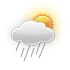
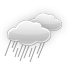
Fix weather, add ru dates, fix instagram comments,

Changed region(s): [[0.0571, 0.0857, 0.8857, 0.8857], [0.2571, 0.2857, 0.3714, 0.3714]]

diff --git a/web/css/main.min.css b/web/css/main.min.css
@@ -1,1 +1,1 @@
-/*! normalize.css v3.0.3 | MIT License | github.com/necolas/normalize.css */img,legend{border:0}legend,td,th{padding:0}.text table,table{border-collapse:collapse}@font-face{font-family:'Open Sans';font-style:normal;font-weight:300;src:local('Open Sans Light'),local('OpenSans-Light'),url(../../fonts.gstatic.com/s/opensans/v13/DXI1ORHCpsQm3Vp6mXoaTfOEPOIfcPv-fZ-WyMUtx48.ttf) format('truetype')}@font-face{font-family:'Open Sans';font-style:normal;font-weight:400;src:local('Open Sans'),local('OpenSans'),url(../../fonts.gstatic.com/s/opensans/v13/RjgO7rYTmqiVp7vzi-Q5UaCWcynf_cDxXwCLxiixG1c.ttf) format('truetype')}@font-face{font-family:'Open Sans';font-style:normal;font-weight:700;src:local('Open Sans Bold'),local('OpenSans-Bold'),url(../../fonts.gstatic.com/s/opensans/v13/k3k702ZOKiLJc3WVjuplzPOEPOIfcPv-fZ-WyMUtx48.ttf) format('truetype')}@font-face{font-family:'Open Sans';font-style:normal;font-weight:800;src:local('Open Sans Extrabold'),local('OpenSans-Extrabold'),url(../../fonts.gstatic.com/s/opensans/v13/EInbV5DfGHOiMmvb1Xr-hvOEPOIfcPv-fZ-WyMUtx48.ttf) format('truetype')}@font-face{font-family:'Open Sans';font-style:italic;font-weight:400;src:local('Open Sans Italic'),local('OpenSans-Italic'),url(../../fonts.gstatic.com/s/opensans/v13/xjAJXh38I15wypJXxuGMBpp-63r6doWhTEbsfBIRJ7A.ttf) format('truetype')}@font-face{font-family:Roboto;font-style:normal;font-weight:400;src:local('Roboto'),local('Roboto-Regular'),url(../../fonts.gstatic.com/s/roboto/v15/B85vmdvDILX92ray16e-1g.ttf) format('truetype')}@font-face{font-family:Roboto;font-style:normal;font-weight:700;src:local('Roboto Bold'),local('Roboto-Bold'),url(../../fonts.gstatic.com/s/roboto/v15/isZ-wbCXNKAbnjo6_TwHTqCWcynf_cDxXwCLxiixG1c.ttf) format('truetype')}@font-face{font-family:Roboto;font-style:normal;font-weight:900;src:local('Roboto Black'),local('Roboto-Black'),url(../../fonts.gstatic.com/s/roboto/v15/3Y_xCyt7TNunMGg0Et2pnqCWcynf_cDxXwCLxiixG1c.ttf) format('truetype')}@font-face{font-family:Roboto;font-style:italic;font-weight:400;src:local('Roboto Italic'),local('Roboto-Italic'),url(../../fonts.gstatic.com/s/roboto/v15/sWTqoqnV-OOzHbi5P-jvYPesZW2xOQ-xsNqO47m55DA.ttf) format('truetype')}@font-face{font-family:'Russo One';font-style:normal;font-weight:400;src:local('Russo One'),local('RussoOne-Regular'),url(../../fonts.gstatic.com/s/russoone/v5/4ofjFbAC3dpxPypNpg86K6CWcynf_cDxXwCLxiixG1c.ttf) format('truetype')}html{font-family:sans-serif;-ms-text-size-adjust:100%;-webkit-text-size-adjust:100%}body{margin:0}article,aside,details,figcaption,figure,footer,header,hgroup,main,menu,nav,section,summary{display:block}audio,canvas,progress,video{display:inline-block;vertical-align:baseline}audio:not([controls]){display:none;height:0}[hidden],template{display:none}a{background-color:transparent}a:active,a:hover{outline:0}abbr[title]{border-bottom:1px dotted}b,optgroup,strong{font-weight:700}dfn{font-style:italic}h1{font-size:2em;margin:.67em 0}mark{background:#ff0;color:#000}small{font-size:80%}sub,sup{font-size:75%;line-height:0;position:relative;vertical-align:baseline}sup{top:-.5em}sub{bottom:-.25em}svg:not(:root){overflow:hidden}figure{margin:1em 40px}hr{box-sizing:content-box;height:0}pre,textarea{overflow:auto}code,kbd,pre,samp{font-family:monospace,monospace;font-size:1em}button,input,optgroup,select,textarea{color:inherit;font:inherit;margin:0}button{overflow:visible}button,select{text-transform:none}button,html input[type=button],input[type=reset],input[type=submit]{-webkit-appearance:button;cursor:pointer}button[disabled],html input[disabled]{cursor:default}button::-moz-focus-inner,input::-moz-focus-inner{border:0;padding:0}input{line-height:normal}input[type=checkbox],input[type=radio]{box-sizing:border-box;padding:0}input[type=number]::-webkit-inner-spin-button,input[type=number]::-webkit-outer-spin-button{height:auto}input[type=search]{-webkit-appearance:textfield;box-sizing:content-box}input[type=search]::-webkit-search-cancel-button,input[type=search]::-webkit-search-decoration{-webkit-appearance:none}fieldset{border:1px solid silver;margin:0 2px;padding:.35em .625em .75em}table{border-spacing:0}.clear{zoom:1}.clear:after,.clear:before{content:"\0020";display:block;height:0;overflow:hidden}.clear:after{clear:both}.ov-hidden{overflow:hidden}.ta-center{text-align:center}.ta-right{text-align:right}.ta-left{text-align:left}.fs10{font-size:10px}.fs11{font-size:11px}.fs12{font-size:12px}.fs13{font-size:13px}.fs14{font-size:14px}.fs15{font-size:15px}.fl-l{float:left}.fl-r{float:right}.mb5{margin-bottom:5px}.mb10{margin-bottom:10px}.mb20{margin-bottom:20px}.mb30,.mb40{margin-bottom:30px}.mb50{margin-bottom:50px}body{font-size:12px;font-family:'Open Sans',Arial,sans-serif}.slide{padding:20px}.slide .slide__title{font-weight:700;font-size:30px;text-transform:uppercase;padding:0 0 15px;line-height:1;border-bottom:1px #095dff solid;margin-bottom:15px}.slide .slide__title span{padding-left:10px;font-weight:400;color:#333;font-size:14px}.rss-feed .rss-feed__item{padding-bottom:20px;border-bottom:1px #eee solid;margin-bottom:20px}.rss-feed .rss-feed__item .rss-feed__date{color:#828282;font-size:13px}.rss-feed .rss-feed__item>a{font-size:25px;display:inline-block}.error h3,.rss-feed .rss-feed__item .rss-feed__content{font-size:16px}.error{color:#a94442;background-color:#f2dede;border-color:#ebccd1}.weather .weather__today{margin-bottom:20px;border-bottom:1px #eee solid}.weather .weather__today h2{font-size:40px;margin:0 0 10px;line-height:1}.weather .weather__today h2 span{padding-left:20px;font-weight:700}.weather .weather__today .weather__code p{margin:0;vertical-align:top}.weather .weather__today .weather__code p span.weather__code-text{vertical-align:top;font-size:20px;padding-left:15px;line-height:70px}.weather .weather__forecasts .weather__forecast{text-align:center;padding:10px}.weather .weather__forecasts .weather__forecast>div{padding-bottom:10px;margin-bottom:10px;border-bottom:1px #eee solid}.weather .weather__forecasts .weather__forecast>div:last-child{margin-bottom:0;padding-bottom:0;border-bottom:none}.weather .weather__forecasts .weather__forecast .weather__forecast-date{font-style:italic;font-size:18px}.weather .weather__forecasts .weather__forecast .weather__forecast-temp .low{color:#444;font-size:15px;padding-left:15px}.weather .weather__forecasts .weather__forecast .weather__forecast-temp .high{font-size:25px;font-weight:700}.weather-icon{width:70px;height:70px;display:inline-block;background-position:0 0;background-repeat:no-repeat}.weather-icon.weather-icon-1{background-image:url(../img/weather/1.png)}.weather-icon.weather-icon-2{background-image:url(../img/weather/2.png)}.weather-icon.weather-icon-3{background-image:url(../img/weather/3.png)}.weather-icon.weather-icon-4{background-image:url(../img/weather/4.png)}.weather-icon.weather-icon-5{background-image:url(../img/weather/5.png)}.weather-icon.weather-icon-6{background-image:url(../img/weather/6.png)}.weather-icon.weather-icon-7{background-image:url(../img/weather/7.png)}.weather-icon.weather-icon-8{background-image:url(../img/weather/8.png)}.weather-icon.weather-icon-9{background-image:url(../img/weather/9.png)}.weather-icon.weather-icon-10{background-image:url(../img/weather/10.png)}.weather-icon.weather-icon-11{background-image:url(../img/weather/11.png)}.weather-icon.weather-icon-12{background-image:url(../img/weather/12.png)}.weather-icon.weather-icon-13{background-image:url(../img/weather/13.png)}.weather-icon.weather-icon-14{background-image:url(../img/weather/14.png)}.weather-icon.weather-icon-15{background-image:url(../img/weather/15.png)}.weather-icon.weather-icon-16{background-image:url(../img/weather/16.png)}.weather-icon.weather-icon-17{background-image:url(../img/weather/17.png)}.weather-icon.weather-icon-18{background-image:url(../img/weather/18.png)}.weather-icon.weather-icon-19{background-image:url(../img/weather/19.png)}.weather-icon.weather-icon-20{background-image:url(../img/weather/20.png)}.weather-icon.weather-icon-26{background-image:url(../img/weather/26.png)}.weather-icon.weather-icon-27{background-image:url(../img/weather/27.png)}.weather-icon.weather-icon-28{background-image:url(../img/weather/28.png)}.weather-icon.weather-icon-29{background-image:url(../img/weather/29.png)}.weather-icon.weather-icon-39{background-image:url(../img/weather/39.png)}.weather-icon.weather-icon-30{background-image:url(../img/weather/30.png)}.weather-icon.weather-icon-46{background-image:url(../img/weather/46.png)}.instagram{padding:10px;background:#e5e5e5}.instagram-item{padding:10px;background:#fff;border-radius:10px}.instagram-item .instagram-item__title a,.instagram-item .instagram-item__title span{display:block}#wrapper{width:100%}.col-20percent{width:20%!important}.text{line-height:150%}.text h1,.text h2,.text h3,.text h4,.text h5{font-weight:700;margin:0 0 10px}.text h1{font-size:20px}.text h2{font-size:18px}.text h3{font-size:16px}.text h4{font-size:15px}.text h5{font-size:14px}.text p{margin:0 0 15px}.text a{text-decoration:none}.text a:hover{text-decoration:underline}.text strong{font-weight:700}.text em{font-style:italic}.text blockquote{padding:10px;background:#eee;border-left:7px #999 solid;margin:0 0 15px}.text img{padding:2px;border:1px solid #eee;margin:0 5px 5px 0}.text ul{margin:0 0 15px 20px}.text ul li{padding:0}.text table{margin:0 0 15px}.text table td,.text table th{padding:5px;border:1px solid #eee}.text table th{text-align:center;font-weight:700}
+/*! normalize.css v3.0.3 | MIT License | github.com/necolas/normalize.css */img,legend{border:0}legend,td,th{padding:0}.text table,table{border-collapse:collapse}@font-face{font-family:'Open Sans';font-style:normal;font-weight:300;src:local('Open Sans Light'),local('OpenSans-Light'),url(../../fonts.gstatic.com/s/opensans/v13/DXI1ORHCpsQm3Vp6mXoaTfOEPOIfcPv-fZ-WyMUtx48.ttf) format('truetype')}@font-face{font-family:'Open Sans';font-style:normal;font-weight:400;src:local('Open Sans'),local('OpenSans'),url(../../fonts.gstatic.com/s/opensans/v13/RjgO7rYTmqiVp7vzi-Q5UaCWcynf_cDxXwCLxiixG1c.ttf) format('truetype')}@font-face{font-family:'Open Sans';font-style:normal;font-weight:700;src:local('Open Sans Bold'),local('OpenSans-Bold'),url(../../fonts.gstatic.com/s/opensans/v13/k3k702ZOKiLJc3WVjuplzPOEPOIfcPv-fZ-WyMUtx48.ttf) format('truetype')}@font-face{font-family:'Open Sans';font-style:normal;font-weight:800;src:local('Open Sans Extrabold'),local('OpenSans-Extrabold'),url(../../fonts.gstatic.com/s/opensans/v13/EInbV5DfGHOiMmvb1Xr-hvOEPOIfcPv-fZ-WyMUtx48.ttf) format('truetype')}@font-face{font-family:'Open Sans';font-style:italic;font-weight:400;src:local('Open Sans Italic'),local('OpenSans-Italic'),url(../../fonts.gstatic.com/s/opensans/v13/xjAJXh38I15wypJXxuGMBpp-63r6doWhTEbsfBIRJ7A.ttf) format('truetype')}@font-face{font-family:Roboto;font-style:normal;font-weight:400;src:local('Roboto'),local('Roboto-Regular'),url(../../fonts.gstatic.com/s/roboto/v15/B85vmdvDILX92ray16e-1g.ttf) format('truetype')}@font-face{font-family:Roboto;font-style:normal;font-weight:700;src:local('Roboto Bold'),local('Roboto-Bold'),url(../../fonts.gstatic.com/s/roboto/v15/isZ-wbCXNKAbnjo6_TwHTqCWcynf_cDxXwCLxiixG1c.ttf) format('truetype')}@font-face{font-family:Roboto;font-style:normal;font-weight:900;src:local('Roboto Black'),local('Roboto-Black'),url(../../fonts.gstatic.com/s/roboto/v15/3Y_xCyt7TNunMGg0Et2pnqCWcynf_cDxXwCLxiixG1c.ttf) format('truetype')}@font-face{font-family:Roboto;font-style:italic;font-weight:400;src:local('Roboto Italic'),local('Roboto-Italic'),url(../../fonts.gstatic.com/s/roboto/v15/sWTqoqnV-OOzHbi5P-jvYPesZW2xOQ-xsNqO47m55DA.ttf) format('truetype')}@font-face{font-family:'Russo One';font-style:normal;font-weight:400;src:local('Russo One'),local('RussoOne-Regular'),url(../../fonts.gstatic.com/s/russoone/v5/4ofjFbAC3dpxPypNpg86K6CWcynf_cDxXwCLxiixG1c.ttf) format('truetype')}html{font-family:sans-serif;-ms-text-size-adjust:100%;-webkit-text-size-adjust:100%}body{margin:0}article,aside,details,figcaption,figure,footer,header,hgroup,main,menu,nav,section,summary{display:block}audio,canvas,progress,video{display:inline-block;vertical-align:baseline}audio:not([controls]){display:none;height:0}[hidden],template{display:none}a{background-color:transparent}a:active,a:hover{outline:0}abbr[title]{border-bottom:1px dotted}b,optgroup,strong{font-weight:700}dfn{font-style:italic}h1{font-size:2em;margin:.67em 0}mark{background:#ff0;color:#000}small{font-size:80%}sub,sup{font-size:75%;line-height:0;position:relative;vertical-align:baseline}sup{top:-.5em}sub{bottom:-.25em}svg:not(:root){overflow:hidden}figure{margin:1em 40px}hr{box-sizing:content-box;height:0}pre,textarea{overflow:auto}code,kbd,pre,samp{font-family:monospace,monospace;font-size:1em}button,input,optgroup,select,textarea{color:inherit;font:inherit;margin:0}button{overflow:visible}button,select{text-transform:none}button,html input[type=button],input[type=reset],input[type=submit]{-webkit-appearance:button;cursor:pointer}button[disabled],html input[disabled]{cursor:default}button::-moz-focus-inner,input::-moz-focus-inner{border:0;padding:0}input{line-height:normal}input[type=checkbox],input[type=radio]{box-sizing:border-box;padding:0}input[type=number]::-webkit-inner-spin-button,input[type=number]::-webkit-outer-spin-button{height:auto}input[type=search]{-webkit-appearance:textfield;box-sizing:content-box}input[type=search]::-webkit-search-cancel-button,input[type=search]::-webkit-search-decoration{-webkit-appearance:none}fieldset{border:1px solid silver;margin:0 2px;padding:.35em .625em .75em}table{border-spacing:0}.clear{zoom:1}.clear:after,.clear:before{content:"\0020";display:block;height:0;overflow:hidden}.clear:after{clear:both}.ov-hidden{overflow:hidden}.ta-center{text-align:center}.ta-right{text-align:right}.ta-left{text-align:left}.fs10{font-size:10px}.fs11{font-size:11px}.fs12{font-size:12px}.fs13{font-size:13px}.fs14{font-size:14px}.fs15{font-size:15px}.fl-l{float:left}.fl-r{float:right}.mb5{margin-bottom:5px}.mb10{margin-bottom:10px}.mb20{margin-bottom:20px}.mb30,.mb40{margin-bottom:30px}.mb50{margin-bottom:50px}body{font-size:12px;font-family:'Open Sans',Arial,sans-serif}.slide{padding:20px}.slide .slide__title{font-weight:700;font-size:30px;text-transform:uppercase;padding:0 0 15px;line-height:1;border-bottom:1px #d2d2d2 solid;margin-bottom:15px}.slide .slide__title span{padding-left:10px;font-weight:400;color:#333;font-size:14px}.rss-feed .rss-feed__item{padding-bottom:20px;border-bottom:1px #eee solid;margin-bottom:20px}.rss-feed .rss-feed__item .rss-feed__date{color:#828282;font-size:13px}.rss-feed .rss-feed__item>a{font-size:25px;display:inline-block}.error h3,.rss-feed .rss-feed__item .rss-feed__content{font-size:16px}.error{color:#a94442;background-color:#f2dede;border-color:#ebccd1}.weather .weather__today{margin-bottom:20px;border-bottom:1px #eee solid}.weather .weather__today h2{font-size:40px;margin:0 0 10px;line-height:1}.weather .weather__today h2 span{padding-left:20px;font-weight:700}.weather .weather__today .weather__code p{margin:0;vertical-align:top}.weather .weather__today .weather__code p span.weather__code-text{vertical-align:top;font-size:20px;padding-left:15px;line-height:70px}.weather .weather__forecasts .weather__forecast{text-align:center;padding:10px}.weather .weather__forecasts .weather__forecast>div{padding-bottom:10px;margin-bottom:10px;border-bottom:1px #eee solid}.weather .weather__forecasts .weather__forecast>div:last-child{margin-bottom:0;padding-bottom:0;border-bottom:none}.weather .weather__forecasts .weather__forecast .weather__forecast-date{font-style:italic;font-size:18px}.weather .weather__forecasts .weather__forecast .weather__forecast-temp .low{color:#444;font-size:25px;padding-left:15px}.weather .weather__forecasts .weather__forecast .weather__forecast-temp .high{font-size:40px;font-weight:700}.weather-icon{width:70px;height:70px;display:inline-block;background-position:0 0;background-repeat:no-repeat}.weather-icon.weather-icon-1{background-image:url(../img/weather/1.png)}.weather-icon.weather-icon-2{background-image:url(../img/weather/2.png)}.weather-icon.weather-icon-3{background-image:url(../img/weather/3.png)}.weather-icon.weather-icon-4{background-image:url(../img/weather/4.png)}.weather-icon.weather-icon-5{background-image:url(../img/weather/5.png)}.weather-icon.weather-icon-6{background-image:url(../img/weather/6.png)}.weather-icon.weather-icon-7{background-image:url(../img/weather/7.png)}.weather-icon.weather-icon-8{background-image:url(../img/weather/8.png)}.weather-icon.weather-icon-9{background-image:url(../img/weather/9.png)}.weather-icon.weather-icon-10{background-image:url(../img/weather/10.png)}.weather-icon.weather-icon-11{background-image:url(../img/weather/11.png)}.weather-icon.weather-icon-12{background-image:url(../img/weather/12.png)}.weather-icon.weather-icon-13{background-image:url(../img/weather/13.png)}.weather-icon.weather-icon-14{background-image:url(../img/weather/14.png)}.weather-icon.weather-icon-15{background-image:url(../img/weather/15.png)}.weather-icon.weather-icon-16{background-image:url(../img/weather/16.png)}.weather-icon.weather-icon-17{background-image:url(../img/weather/17.png)}.weather-icon.weather-icon-18{background-image:url(../img/weather/18.png)}.weather-icon.weather-icon-19{background-image:url(../img/weather/19.png)}.weather-icon.weather-icon-20{background-image:url(../img/weather/20.png)}.weather-icon.weather-icon-26{background-image:url(../img/weather/26.png)}.weather-icon.weather-icon-27{background-image:url(../img/weather/27.png)}.weather-icon.weather-icon-28{background-image:url(../img/weather/28.png)}.weather-icon.weather-icon-29{background-image:url(../img/weather/29.png)}.weather-icon.weather-icon-39{background-image:url(../img/weather/39.png)}.weather-icon.weather-icon-30{background-image:url(../img/weather/30.png)}.weather-icon.weather-icon-46{background-image:url(../img/weather/46.png)}.instagram{padding:10px;background:#e5e5e5}.instagram-item{padding:10px;background:#fff;border-radius:10px}.instagram-item .instagram-item__title{height:40px;position:relative}.instagram-item .instagram-item__title span,.instagram-item .instagram-item__title strong{display:block}.instagram-item .instagram-item__title .instagram-item__date{position:absolute;font-size:11px;color:#6F6F6F;right:0;top:0}.instagram-item .instagram-item__image{margin:0 0 5px}#wrapper{width:100%}.col-20percent{width:20%!important}.text{line-height:150%}.text h1,.text h2,.text h3,.text h4,.text h5{font-weight:700;margin:0 0 10px}.text h1{font-size:20px}.text h2{font-size:18px}.text h3{font-size:16px}.text h4{font-size:15px}.text h5{font-size:14px}.text p{margin:0 0 15px}.text a{text-decoration:none}.text a:hover{text-decoration:underline}.text strong{font-weight:700}.text em{font-style:italic}.text blockquote{padding:10px;background:#eee;border-left:7px #999 solid;margin:0 0 15px}.text img{padding:2px;border:1px solid #eee;margin:0 5px 5px 0}.text ul{margin:0 0 15px 20px}.text ul li{padding:0}.text table{margin:0 0 15px}.text table td,.text table th{padding:5px;border:1px solid #eee}.text table th{text-align:center;font-weight:700}

diff --git a/web/css/main.css b/web/css/main.css
@@ -174,7 +174,7 @@ body { font-size: 12px; font-family: 'Open Sans', Arial, sans-serif; }
 
 .slide { padding: 20px; }
 
-.slide .slide__title { font-weight: bold; font-size: 30px; text-transform: uppercase; padding: 0 0 15px; line-height: 1; border-bottom: 1px #095dff solid; margin-bottom: 15px; }
+.slide .slide__title { font-weight: bold; font-size: 30px; text-transform: uppercase; padding: 0 0 15px; line-height: 1; border-bottom: 1px #d2d2d2 solid; margin-bottom: 15px; }
 
 .slide .slide__title span { padding-left: 10px; font-weight: normal; color: #333; font-size: 14px; }
 
@@ -208,9 +208,9 @@ body { font-size: 12px; font-family: 'Open Sans', Arial, sans-serif; }
 
 .weather .weather__forecasts .weather__forecast .weather__forecast-date { font-style: italic; font-size: 18px; }
 
-.weather .weather__forecasts .weather__forecast .weather__forecast-temp .low { color: #444; font-size: 15px; padding-left: 15px; }
+.weather .weather__forecasts .weather__forecast .weather__forecast-temp .low { color: #444; font-size: 25px; padding-left: 15px; }
 
-.weather .weather__forecasts .weather__forecast .weather__forecast-temp .high { font-size: 25px; font-weight: bold; }
+.weather .weather__forecasts .weather__forecast .weather__forecast-temp .high { font-size: 40px; font-weight: bold; }
 
 .weather-icon { width: 70px; height: 70px; display: inline-block; background-position: 0 0; background-repeat: no-repeat; }
 
@@ -274,9 +274,13 @@ body { font-size: 12px; font-family: 'Open Sans', Arial, sans-serif; }
 
 .instagram-item { padding: 10px; background: white; border-radius: 10px; }
 
-.instagram-item .instagram-item__title a { display: block; }
+.instagram-item .instagram-item__title { height: 40px; position: relative; }
 
-.instagram-item .instagram-item__title span { display: block; }
+.instagram-item .instagram-item__title span, .instagram-item .instagram-item__title strong { display: block; }
+
+.instagram-item .instagram-item__title .instagram-item__date { position: absolute; font-size: 11px; color: #6F6F6F; right: 0; top: 0; }
+
+.instagram-item .instagram-item__image { margin: 0 0 5px; }
 
 #wrapper { width: 100%; }
 

diff --git a/frontend/src/scss/_blocks.scss b/frontend/src/scss/_blocks.scss
@@ -103,11 +103,11 @@
       .weather__forecast-temp {
         .low {
           color: #444;
-          font-size: 15px;
+          font-size: 25px;
           padding-left: 15px;
         }
         .high {
-          font-size: 25px;
+          font-size: 40px;
           font-weight: bold;
         }
       }
@@ -230,13 +230,24 @@
   background: white;
   border-radius: 10px;
   .instagram-item__title {
-    a {
-      display: block;  
-    }
-    span {
+    height: 40px;
+    position: relative;
+    span,strong {
       display: block;
     }
+    .instagram-item__date {
+      position: absolute;
+      font-size: 11px;
+      color: #6F6F6F;
+      right: 0;
+      top: 0;
+    }
+
     
+  }
+
+  .instagram-item__image {
+    margin: 0 0 5px;
   }
   
 }

diff --git a/frontend/gulpfile.js b/frontend/gulpfile.js
@@ -50,7 +50,7 @@ gulp.task('jade', function() {
         pageTitle: 'App Page Title'
     };
 
-    return gulp.src("./src/jade/*.jade")
+    return gulp.src("./src/jade/samples.jade")
         .pipe(jade({
             locals: YOUR_LOCALS,
             pretty: true
@@ -76,12 +76,12 @@ gulp.task('images', function() {
 
 gulp.task('watch', function () {
     gulp.run('styles');
-    //gulp.run('jade');
+    gulp.run('jade');
     gulp.run('scripts');
 
     livereload.listen();
     gulp.watch('./src/scss/**/*.scss', ['styles']);
-    //gulp.watch('./src/jade/**/*.jade', ['jade']);
+    gulp.watch('./src/jade/**/*.jade', ['jade']);
     gulp.watch('./src/js/**/*.js', ['scripts']);
 });
 

diff --git a/frontend/src/scss/_base.scss b/frontend/src/scss/_base.scss
@@ -4,4 +4,4 @@ body {
 }
 
 
-$cl-color: #095dff;
+$cl-color: #d2d2d2;

diff --git a/src/Handler/InstagramResourceHandler.php b/src/Handler/InstagramResourceHandler.php
@@ -9,8 +9,12 @@
 namespace IpadSlider\Handler;
 
 
+use HeyUpdate\Emoji\Emoji;
+use HeyUpdate\Emoji\EmojiIndex;
 use Instagram\Instagram;
 use IpadSlider\Application;
+use IpadSlider\Helper\StrHelper;
+use Jenssegers\Date\Date;
 
 class InstagramResourceHandler implements IResourceHandler {
 
@@ -31,17 +35,22 @@ class InstagramResourceHandler implements IResourceHandler {
 	public function renderHtml() {
 		$media = $this->_currentUser->getFeed(['count' => 3]);
 		$data = [];
+		$emoji = new Emoji(new EmojiIndex(), '//twemoji.maxcdn.com/36x36/%s.png');
 		foreach ($media as $photo) {
 			/** @var \Instagram\Media $photo */
 			$data[] = [
 				'image' => $photo->getLowResImage()->url,
 				'user' => $photo->getUser()->getUserName(),
 				'location' => $photo->getLocation() ? $photo->getLocation()->getName() : '',
-				'date' => $photo->getCreatedTime(),
-				//'caption' => $photo->getCaption() ? $photo->getCaption()->getText() : '',
+				'date' => Date::parse($photo->getCreatedTime())->ago(),
+				'caption' => $photo->getCaption() ? StrHelper::removeEmoji($photo->getCaption()->getText())  : '',
 			];
+
+			file_put_contents("test.txt", print_r($data,true));
 		}
 
 		return Application::getInstance()->jadeEngine()->render(__DIR__. '/../../frontend/src/jade/resource/instagram.jade', ['data' => $data]);
 	}
+
+
 }

diff --git a/src/Helper/StrHelper.php b/src/Helper/StrHelper.php
@@ -1,0 +1,41 @@
+<?php
+/**
+ * Created by PhpStorm.
+ * User: marochkin_pe
+ * Date: 03.11.2015
+ * Time: 16:34
+ */
+
+namespace IpadSlider\Helper;
+
+
+class StrHelper {
+
+	public static function removeEmoji($text) {
+
+		$clean_text = "";
+
+		// Match Emoticons
+		$regexEmoticons = '/[\x{1F600}-\x{1F64F}]/u';
+		$clean_text = preg_replace($regexEmoticons, '', $text);
+
+		// Match Miscellaneous Symbols and Pictographs
+		$regexSymbols = '/[\x{1F300}-\x{1F5FF}]/u';
+		$clean_text = preg_replace($regexSymbols, '', $clean_text);
+
+		// Match Transport And Map Symbols
+		$regexTransport = '/[\x{1F680}-\x{1F6FF}]/u';
+		$clean_text = preg_replace($regexTransport, '', $clean_text);
+
+		// Match Miscellaneous Symbols
+		$regexMisc = '/[\x{2600}-\x{26FF}]/u';
+		$clean_text = preg_replace($regexMisc, '', $clean_text);
+
+		// Match Dingbats
+		$regexDingbats = '/[\x{2700}-\x{27BF}]/u';
+		$clean_text = preg_replace($regexDingbats, '', $clean_text);
+
+		return $clean_text;
+	}
+
+} 

diff --git a/src/Application.php b/src/Application.php
@@ -15,8 +15,10 @@ use IpadSlider\Model\DbPersistent;
 use IpadSlider\Model\DummyPersistent;
 use IpadSlider\Transport\CurlTransport;
 use Jade\Jade;
+use Jenssegers\Date\Date;
 
-class Application {
+class Application
+{
 
 	private static $_instance;
 
@@ -29,11 +31,12 @@ class Application {
 	private $_serviceLocator;
 
 	private function __construct() {
-		$this->_config = require_once(dirname(__FILE__).'/../app/config.php');
+		$this->_config = require_once(dirname(__FILE__) . '/../app/config.php');
 
 	}
 
 	public function init() {
+		Date::setLocale('ru');
 		$this->_initServiceLocator();
 	}
 
@@ -43,16 +46,15 @@ class Application {
 	 *
 	 * @return void
 	 */
-	private function __clone()
-	{
+	private function __clone() {
 	}
+
 	/**
 	 * prevent from being unserialized
 	 *
 	 * @return void
 	 */
-	private function __wakeup()
-	{
+	private function __wakeup() {
 	}
 
 

diff --git a/src/Handler/WeatherResourceHandler.php b/src/Handler/WeatherResourceHandler.php
@@ -134,8 +134,8 @@ class WeatherResourceHandler implements IResourceHandler{
 		, 26 => 'облачно'
 		, 27 => 'облачно'
 		, 28 => 'облачно'
-		, 29 => 'небольшая облачность'
-		, 30 => 'небольшая облачность'
+		, 29 => 'переменная обрачность'
+		, 30 => 'переменная обрачность'
 		, 31 => 'ясно'
 		, 32 => 'солнечно'
 		, 33 => 'fair (night)'
@@ -144,7 +144,7 @@ class WeatherResourceHandler implements IResourceHandler{
 		, 36 => 'жарко'
 		, 37 => 'местами грозы'
 		, 38 => 'местами грозы'
-		, 39 => 'местами грозы'
+		, 39 => 'дожди'
 		, 40 => 'местами дожди'
 		, 41 => 'снег'
 		, 42 => 'снег'

diff --git a/src/Handler/RssResourceHandler.php b/src/Handler/RssResourceHandler.php
@@ -11,6 +11,7 @@ namespace IpadSlider\Handler;
 
 use IpadSlider\Application;
 use Jade\Jade;
+use Jenssegers\Date\Date;
 use Vinelab\Rss\Rss;
 
 class RssResourceHandler implements IResourceHandler {
@@ -43,7 +44,7 @@ class RssResourceHandler implements IResourceHandler {
 
 			$result[] = [
 'link' => $article->link,
-				'pubDate' => $article->pubDate,
+				'pubDate' => Date::parse($article->pubDate)->ago(),
 				'title' => $article->title,
 				'description' => $this->_stripTags($article->description)
 			];

diff --git a/src/Model/Resource.php b/src/Model/Resource.php
@@ -8,6 +8,7 @@
 
 namespace IpadSlider\Model;
 use IpadSlider\Factory\ResourceHandlerFactory;
+use Jenssegers\Date\Date;
 
 /**
  * Class Resource
@@ -30,6 +31,9 @@ class Resource {
 	/* @var string */
 	public $type;
 
+	/* @var string */
+	public $refresh_date;
+
 	/**
 	 * @return null
 	 */
@@ -39,6 +43,10 @@ class Resource {
 			return $type->renderHtml();
 		}
 		return null;
+	}
+
+	public function getAgo() {
+		return Date::parse($this->refresh_date)->ago();
 	}
 
 }

diff --git a/test/DateHelperTest.php b/test/DateHelperTest.php
@@ -1,0 +1,24 @@
+<?
+
+
+use Jenssegers\Date\Date;
+
+class DateHelperText extends PHPUnit_Framework_TestCase {
+
+	public function testDates() {
+		Date::setLocale('ru');
+
+		$dates = [
+			'3 Nov 2015',
+			'11/03/2015',
+			'2015-11-03',
+			'Tue, 03 Nov 2015 13:40:06 +0300'
+		];
+
+		$needle = '3 ноября 2015';
+
+		foreach ($dates as $date) {
+			$this->assertEquals($needle, Date::parse($date)->format('j F Y'));
+		}
+	}
+}
